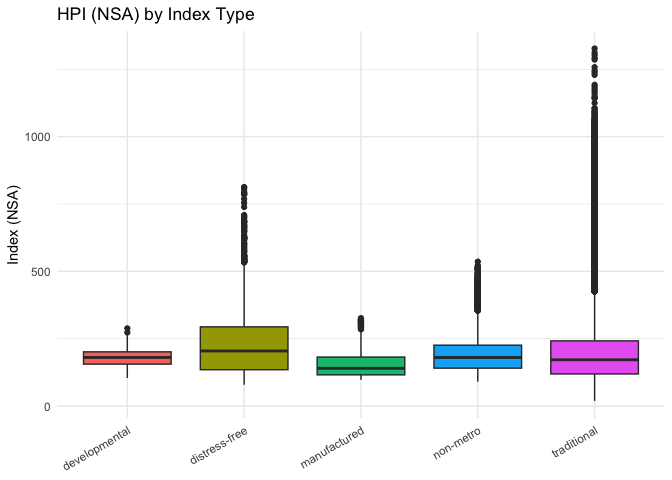
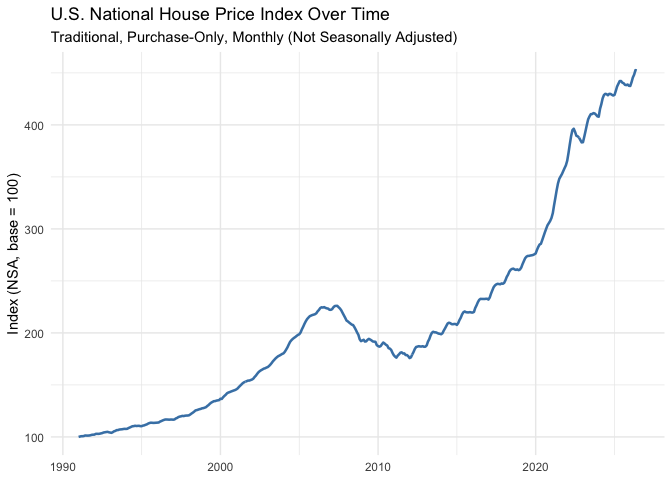
updated w/ correct visualizations

diff --git a/README.md b/README.md
@@ -1,6 +1,6 @@
 README
 ================
-Miles & Lily
+Miles Nienstadt & Lily Nathan
 
 # Getting into Business: Real Estate Investment Data Exploration
 
@@ -205,11 +205,54 @@ hpi_master %>%
     ## 3                  State  51
     ## 4 USA or Census Division  10
 
+### Missing values
+
+``` r
+missing_summary <- hpi_master %>%
+  summarise(across(everything(), ~sum(is.na(.)))) %>%
+  pivot_longer(everything(), names_to = "Column", values_to = "Missing_Count") %>%
+  mutate(Missing_Pct = round(100 * Missing_Count / nrow(hpi_master), 1)) %>%
+  arrange(desc(Missing_Count))
+
+kable(missing_summary, caption = "Missing Values by Column")
+```
+
+| Column     | Missing_Count | Missing_Pct |
+|:-----------|--------------:|------------:|
+| rstderr    |        127791 |        68.7 |
+| index_sa   |         89897 |        48.3 |
+| hpi_type   |             0 |         0.0 |
+| hpi_flavor |             0 |         0.0 |
+| frequency  |             0 |         0.0 |
+| level      |             0 |         0.0 |
+| place_name |             0 |         0.0 |
+| place_id   |             0 |         0.0 |
+| yr         |             0 |         0.0 |
+| period     |             0 |         0.0 |
+| index_nsa  |             0 |         0.0 |
+| note       |             0 |         0.0 |
+
+Missing Values by Column
+
 Note: `index_sa` (seasonally adjusted) is missing for about 48% of rows
 (89,897 of 186,011) — this is because seasonal adjustment isn’t computed
 for all `hpi_type`/`level` combinations, not random missingness. The
 same is true for `rstderr` and `note`, which are populated only for
-certain series/annotations.
+certain series/annotations. \### Handling Missing Values Missing values
+in this dataset are largely structural rather than random. For index_sa,
+seasonal adjustment is not available for every series or geographic
+level. Because of this, our primary analysis will use index_nsa, which
+has much broader coverage. If seasonally adjusted values are needed, we
+can restrict the analysis to subsets of the data where index_sa is
+available. Another possible approach would be to estimate seasonal
+adjustments for missing observations using an appropriate time-series
+method, though this would require additional assumptions.
+
+For rstderr, we would not attempt to manually fill in missing values.
+This variable reflects the estimated uncertainty or reliability of the
+HPI calculation, so imputing it could create misleading measures of
+precision. Instead, missing rstderr values should be left as missing and
+only used where FHFA reports them.
 
 ## 2. Data Summary & Initial Insights
 
@@ -244,35 +287,6 @@ kable(numeric_summary, digits = 2, caption = "Summary Statistics for Numeric Var
 | rstderr   |    2.67 |    2.05 |   2.22 |    0.00 |   15.75 | 127791 |
 
 Summary Statistics for Numeric Variables
-
-### Missing values
-
-``` r
-missing_summary <- hpi_master %>%
-  summarise(across(everything(), ~sum(is.na(.)))) %>%
-  pivot_longer(everything(), names_to = "Column", values_to = "Missing_Count") %>%
-  mutate(Missing_Pct = round(100 * Missing_Count / nrow(hpi_master), 1)) %>%
-  arrange(desc(Missing_Count))
-
-kable(missing_summary, caption = "Missing Values by Column")
-```
-
-| Column     | Missing_Count | Missing_Pct |
-|:-----------|--------------:|------------:|
-| rstderr    |        127791 |        68.7 |
-| index_sa   |         89897 |        48.3 |
-| hpi_type   |             0 |         0.0 |
-| hpi_flavor |             0 |         0.0 |
-| frequency  |             0 |         0.0 |
-| level      |             0 |         0.0 |
-| place_name |             0 |         0.0 |
-| place_id   |             0 |         0.0 |
-| yr         |             0 |         0.0 |
-| period     |             0 |         0.0 |
-| index_nsa  |             0 |         0.0 |
-| note       |             0 |         0.0 |
-
-Missing Values by Column
 
 ### Frequency tables for categorical variables
 
@@ -338,46 +352,123 @@ ggplot(hpi_master, aes(x = index_nsa)) +
 
 ![](README_files/figure-gfm/hist-index-1.png)<!-- -->
 
-### Visualization: index_nsa by hpi_type
+### Visualization: National HPI Trend Over Time
 
 ``` r
-ggplot(hpi_master, aes(x = hpi_type, y = index_nsa, fill = hpi_type)) +
-  geom_boxplot(show.legend = FALSE) +
-  labs(title = "HPI (NSA) by Index Type", x = NULL, y = "Index (NSA)") +
-  theme_minimal() +
-  theme(axis.text.x = element_text(angle = 30, hjust = 1))
+national_over_time <- hpi_master %>%
+  filter(
+    place_id == "USA",
+    hpi_type == "traditional",
+    hpi_flavor == "purchase-only",
+    frequency == "monthly"
+  ) %>%
+  mutate(date = as.Date(paste(yr, period, "01", sep = "-")))
+
+ggplot(national_over_time, aes(x = date, y = index_nsa)) +
+  geom_line(color = "steelblue", linewidth = 0.9) +
+  labs(
+    title = "U.S. National House Price Index Over Time",
+    subtitle = "Traditional, Purchase-Only, Monthly (Not Seasonally Adjusted)",
+    x = NULL,
+    y = "Index (NSA, base = 100)"
+  ) +
+  theme_minimal()
 ```
 
 ![](README_files/figure-gfm/box-index-by-type-1.png)<!-- -->
 
-### Visualization: national HPI trend over time
+### Visualization: Census Division Trends
 
 ``` r
-national_trend <- hpi_master %>%
-  filter(place_id == "USA", hpi_type == "traditional", frequency == "monthly") %>%
-  mutate(date = as.Date(paste(yr, period, "01", sep = "-")))
+division_trends <- hpi_master %>%
+  filter(
+    level == "USA or Census Division",
+    place_id != "USA",
+    hpi_type == "traditional",
+    hpi_flavor == "purchase-only",
+    frequency == "quarterly"
+  ) %>%
+  mutate(
+    date = as.Date(paste(yr, period * 3, "01", sep = "-"))
+  )
 
-ggplot(national_trend, aes(x = date, y = index_nsa, color = hpi_flavor)) +
+ggplot(
+  division_trends,
+  aes(x = date, y = index_nsa, color = place_name)
+) +
   geom_line(linewidth = 0.8) +
-  labs(title = "U.S. National HPI Over Time (Traditional, Monthly)",
-       x = NULL, y = "Index (NSA)", color = "Flavor") +
+  labs(
+    title = "House Price Trends Across U.S. Census Divisions",
+    subtitle = "Traditional Purchase-Only HPI",
+    x = NULL,
+    y = "House Price Index",
+    color = "Census Division"
+  ) +
   theme_minimal()
 ```
 
-![](README_files/figure-gfm/national-trend-1.png)<!-- -->
+![](README_files/figure-gfm/census-trend-1.png)<!-- -->
 
-national_over_time \<- hpi_master %\>% filter(place_id == “USA”,
-hpi_type == “traditional”, hpi_flavor == “purchase-only”, frequency ==
-“monthly”) %\>% mutate(date = as.Date(paste(yr, period, “01”, sep =
-“-”)))
+### Five-Year House Price Growth by State
 
-ggplot(national_over_time, aes(x = date, y = index_nsa)) +
-geom_line(color = “steelblue”, linewidth = 0.9) + labs(title = “U.S.
-National House Price Index Over Time”, subtitle = “Traditional,
-Purchase-Only, Monthly (Not Seasonally Adjusted)”, x = NULL, y = “Index
-(NSA, base = 100)”) + theme_minimal()
+``` r
+state_data <- hpi_master %>%
+  filter(
+    level == "State",
+    hpi_type == "traditional",
+    hpi_flavor == "purchase-only",
+    frequency == "quarterly"
+  )
 
-### 3. Complementary Dataset: Census Building Permits Survey
+latest_year <- max(state_data$yr, na.rm = TRUE)
+
+latest_period <- state_data %>%
+  filter(yr == latest_year) %>%
+  summarise(period = max(period, na.rm = TRUE)) %>%
+  pull(period)
+
+state_latest <- state_data %>%
+  filter(
+    yr == latest_year,
+    period == latest_period
+  ) %>%
+  select(place_name, current_hpi = index_nsa)
+
+state_5yr <- state_data %>%
+  filter(
+    yr == latest_year - 5,
+    period == latest_period
+  ) %>%
+  select(place_name, hpi_5yr = index_nsa)
+
+state_growth <- state_latest %>%
+  inner_join(state_5yr, by = "place_name") %>%
+  mutate(
+    pct_change = 100 * (current_hpi / hpi_5yr - 1)
+  )
+
+ggplot(
+  state_growth,
+  aes(x = reorder(place_name, pct_change), y = pct_change)
+) +
+  geom_col(fill = "steelblue", width = 0.8) +
+  coord_flip() +
+  labs(
+    title = "Five-Year House Price Growth by State",
+    subtitle = "Traditional Purchase-Only HPI",
+    x = NULL,
+    y = "5-Year Change (%)"
+  ) +
+  theme_minimal() +
+  theme(
+    axis.text.y = element_text(size = 8),
+    plot.title = element_text(size = 14),
+    plot.subtitle = element_text(size = 11)
+  )
+```
+
+![](README_files/figure-gfm/year-change-1.png)<!-- --> \### 3.
+Complementary Dataset: Census Building Permits Survey
 
 A useful complementary dataset is the U.S. Census Bureau Building
 Permits Survey.
@@ -401,15 +492,3 @@ housing markets.
 
 Source: [U.S. Census Bureau Building Permits
 Survey](https://www.census.gov/construction/bps/index.html)
-
-## 4. Communicating Your Findings
-
-*(To do: plain-language summary for a non-technical audience.)*
-
-## 3. Expanding Your Investment Knowledge
-
-*(To do: identify and describe a complementary dataset.)*
-
-## 4. Communicating Your Findings
-
-*(To do: plain-language summary for a non-technical audience.)*
